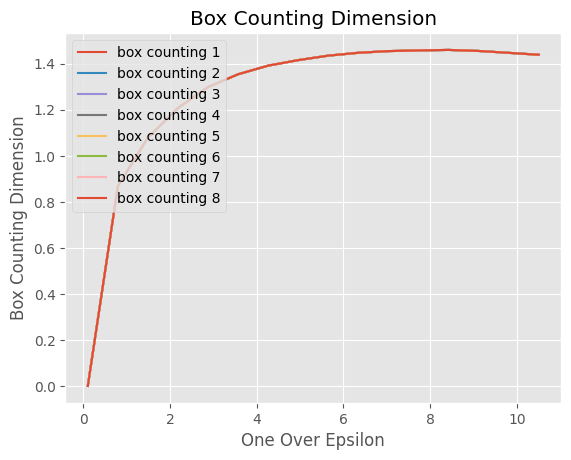
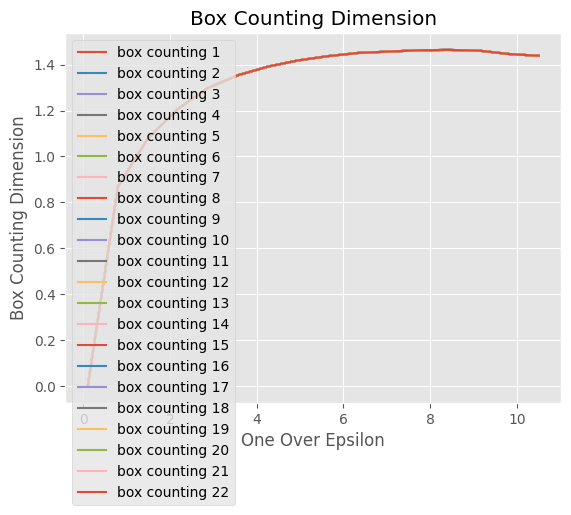
25

Changed region(s): [[0.0, 0.0, 0.9825, 0.9739]]

diff --git a/main.py b/main.py
@@ -21,13 +21,18 @@ def run_simulation(bm0: int = 0, t_max: int = 1, initial_epsilon: float = 0.9,
 
     num_steps: int = int(t_max / delta_t)
 
+    current_timestamp = 0
+
     for k in range(num_simulations):
         bms: list[float] = [0] * num_steps
         bm: float = bm0
 
         now = datetime.now()
         ts = int(now.timestamp())
-        np.random.seed(ts)
+
+        if ts != current_timestamp:
+            np.random.seed(ts)
+            current_timestamp = ts
 
         for index in range(num_steps):
             arr_step = np.random.normal(0, delta_t, 1)
@@ -231,7 +236,7 @@ def calculate_box_counting(xs: list[float], box: ((float, float), (float, float)
 
 
 def main():
-    run_simulation(num_simulations=8)
+    run_simulation(num_simulations=22)
 
 
 main()
